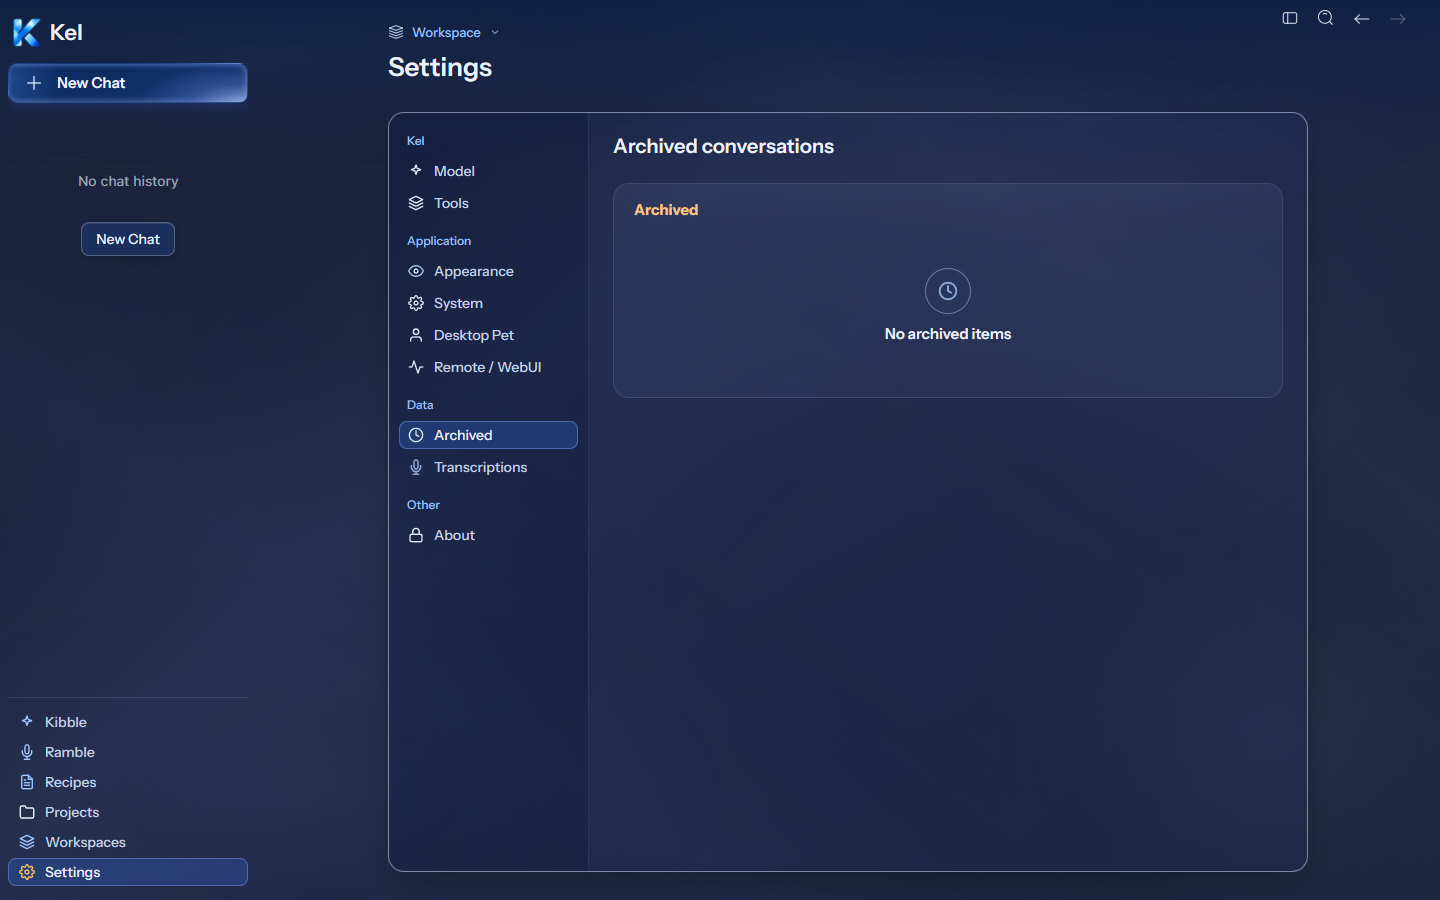
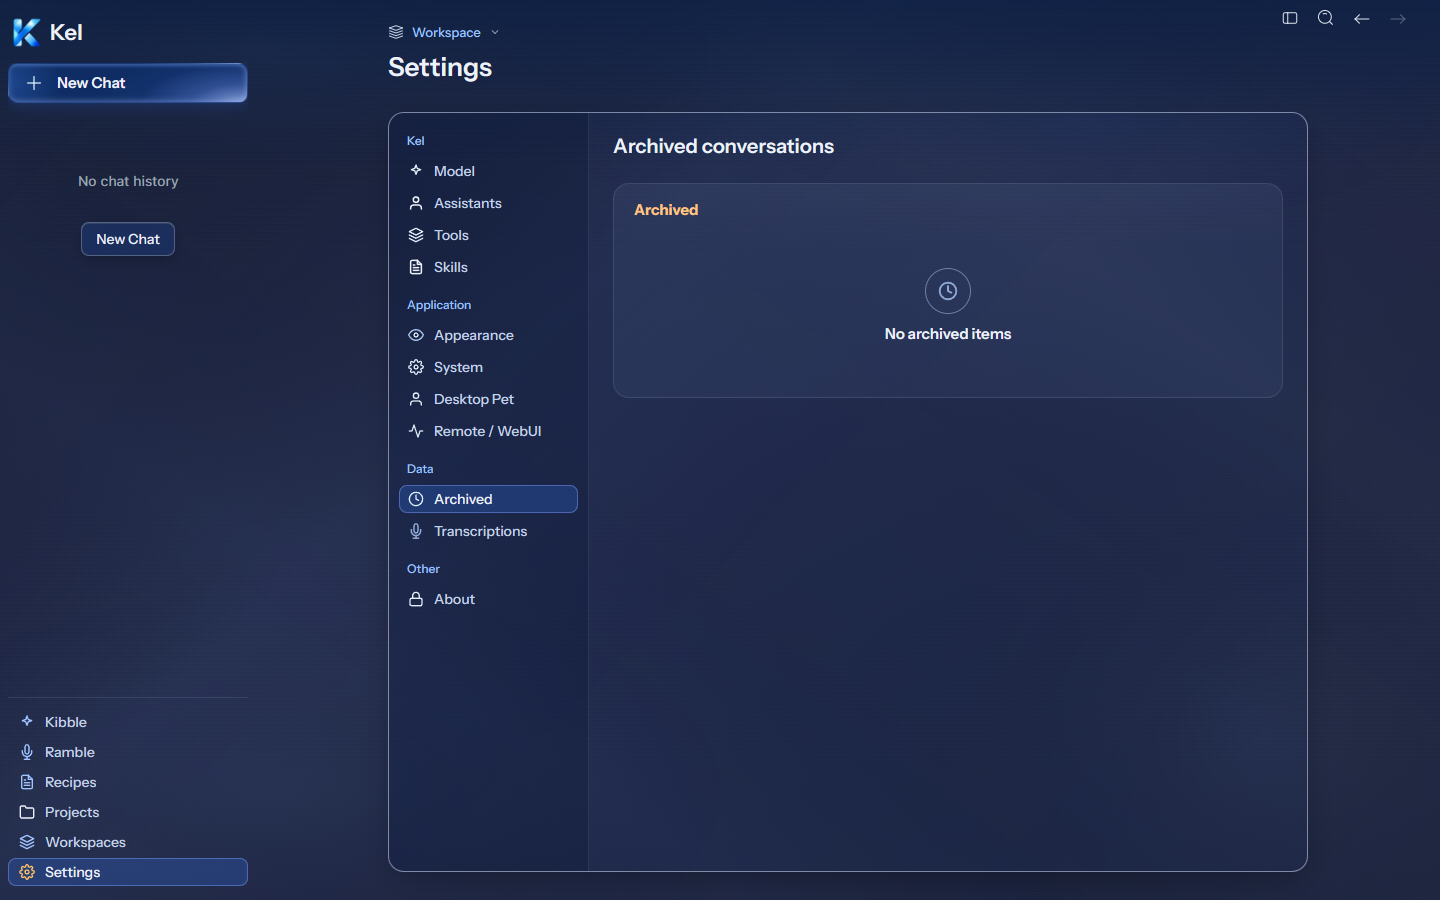
feat(shell): show Figma Assistants and Skills settings

Changed region(s): [[0.25, 0.2178, 0.4062, 0.6844]]

diff --git a/desktop/packages/desktop/src/renderer/styles/kel-shell.css b/desktop/packages/desktop/src/renderer/styles/kel-shell.css
@@ -725,6 +725,21 @@ html body .kel-v2-shell .kel-shell-chat-composer .sendbox-panel :is(.sendbox-mod
 .kel-v2-shell .kel-shell-archived-empty-content { display: flex; flex: 1; flex-direction: column; align-items: center; justify-content: center; }
 .kel-v2-shell .kel-shell-archived-empty-content .kel-meta { margin: 0; font: 600 15px/20px var(--kel-shell-heading); color: var(--kel-text-1); }
 .kel-v2-shell .kel-in-chat-frame__pane .kel-shell-about .kel-shell-preference-row { min-height: 58px; }
+.kel-v2-shell .kel-shell-catalog-stack { display: flex; flex-direction: column; gap: 12px; }
+.kel-v2-shell .kel-shell-catalog-stack > .kel-card { margin-bottom: 0; }
+.kel-v2-shell .kel-shell-catalog-card { min-height: 215px; }
+.kel-v2-shell .kel-shell-catalog-empty { display: flex; flex: 1; flex-direction: column; align-items: center; justify-content: center; }
+.kel-v2-shell .kel-shell-catalog-empty-icon { display: flex; align-items: center; justify-content: center; width: 44px; height: 44px; margin-bottom: 10px; border: 1px solid rgba(191,216,255,.45); border-radius: 50%; }
+.kel-v2-shell .kel-shell-catalog-empty-icon img { width: 20px; height: 20px; }
+.kel-v2-shell .kel-shell-catalog-empty p { margin: 0; font: 600 15px/20px var(--kel-shell-heading); color: var(--kel-text-1); }
+.kel-v2-shell .kel-shell-catalog-status { margin: auto; text-align: center; font: 400 14px/20px var(--kel-shell-body); color: var(--kel-text-2); }
+.kel-v2-shell .kel-shell-catalog-list { display: flex; flex-direction: column; }
+.kel-v2-shell .kel-shell-catalog-row { display: flex; flex-direction: column; gap: 4px; padding: 10px 0; border-bottom: 1px solid rgba(191,216,255,.12); }
+.kel-v2-shell .kel-shell-catalog-row:last-child { border-bottom: 0; }
+.kel-v2-shell .kel-shell-catalog-row strong { font: 500 14px/20px var(--kel-shell-heading); color: var(--kel-text-1); }
+.kel-v2-shell .kel-shell-catalog-row span { font: 400 12px/16px var(--kel-shell-body); color: var(--kel-text-2); }
+.kel-v2-shell .kel-shell-catalog-tip { min-height: 100px; }
+.kel-v2-shell .kel-shell-catalog-tip p { margin: 0; padding: 6px 12px; border: 1px solid rgba(191,216,255,.12); border-radius: 8px; background: rgba(47,107,224,.08); font: 400 12px/16px var(--kel-shell-body); color: var(--kel-text-2); }
 
 .kel-v2-shell .kel-shell-ramble > aside { box-sizing: border-box; width: 256px; min-width: 256px; padding: 0 8px; }
 .kel-v2-shell .kel-shell-ramble > main { padding: 22px max(24px, calc((100vw - 1176px) / 2)) 24px; }

diff --git a/desktop/packages/desktop/src/renderer/components/layout/Router.tsx b/desktop/packages/desktop/src/renderer/components/layout/Router.tsx
@@ -11,7 +11,9 @@ const Guid = React.lazy(() => import('@renderer/pages/guid'));
 const AgentSettings = React.lazy(() => import('@renderer/pages/settings/AgentSettings'));
 const AgentRepairPage = React.lazy(() => import('@renderer/pages/settings/AgentSettings/AgentRepairPage'));
 const AssistantSettings = React.lazy(() => import('@renderer/pages/settings/AssistantSettings'));
+const AssistantsOverviewSettings = React.lazy(() => import('@renderer/pages/settings/AssistantsOverviewSettings'));
 const SkillsSettings = React.lazy(() => import('@renderer/pages/settings/SkillsSettings/SkillsHubSettings'));
+const SkillsOverviewSettings = React.lazy(() => import('@renderer/pages/settings/SkillsOverviewSettings'));
 const SkillDetailPage = React.lazy(() => import('@renderer/pages/settings/SkillsSettings/SkillDetailPage'));
 const ToolsSettings = React.lazy(() => import('@renderer/pages/settings/ToolsSettings'));
 const AppearanceSettings = React.lazy(() => import('@renderer/pages/settings/AppearanceSettings'));
@@ -161,7 +163,7 @@ const PanelRoute: React.FC<{ layout: React.ReactElement }> = ({ layout }) => {
             path='/assistants'
             element={HIDE_DONOR_AGENT_SURFACES ? <Navigate to='/guid' replace /> : withRouteFallback(AssistantSettings)}
           />
-          <Route path='/settings/assistants' element={<Navigate to='/team/roster' replace />} />
+          <Route path='/settings/assistants' element={withRouteFallback(AssistantsOverviewSettings)} />
           <Route
             path='/settings/agent'
             element={<Navigate to='/team/roster' replace />}
@@ -170,10 +172,7 @@ const PanelRoute: React.FC<{ layout: React.ReactElement }> = ({ layout }) => {
             path='/settings/agent/:id/repair'
             element={<Navigate to='/team/roster' replace />}
           />
-          <Route
-            path='/settings/skills'
-            element={<Navigate to='/team/roster' replace />}
-          />
+          <Route path='/settings/skills' element={withRouteFallback(SkillsOverviewSettings)} />
           <Route
             path='/settings/skills/import-history'
             element={<Navigate to='/team/roster' replace />}

diff --git a/desktop/packages/desktop/src/renderer/pages/settings/SkillsOverviewSettings/index.tsx b/desktop/packages/desktop/src/renderer/pages/settings/SkillsOverviewSettings/index.tsx
@@ -1,0 +1,39 @@
+import { ipcBridge } from '@/common';
+import ShellSourceCardHeader from '@renderer/components/kel/ShellSourceCardHeader';
+import emptyIcon from '@renderer/assets/figma/empty-skills.svg';
+import React from 'react';
+import useSWR from 'swr';
+import SettingsPageWrapper from '../components/SettingsPageWrapper';
+
+type Skill = Awaited<ReturnType<typeof ipcBridge.fs.listAvailableSkills.invoke>>[number];
+
+const SkillsOverviewSettings: React.FC = () => {
+  const { data, error, isLoading } = useSWR<Skill[]>('kel.settings.skills', () => ipcBridge.fs.listAvailableSkills.invoke());
+  const mine = (data ?? []).filter((skill) => skill.source === 'custom');
+
+  return <SettingsPageWrapper>
+    <div className='kel-shell-catalog-stack' data-testid='kel-settings-skills'>
+      <section className='kel-card kel-shell-catalog-card'>
+        <ShellSourceCardHeader title='My Skills' />
+        {isLoading ? <p className='kel-shell-catalog-status'>Loading skills…</p>
+          : error ? <p className='kel-shell-catalog-status'>Skills are unavailable.</p>
+          : mine.length === 0 ? <div className='kel-shell-catalog-empty'>
+            <span className='kel-shell-catalog-empty-icon' aria-hidden='true'><img src={emptyIcon} alt='' /></span>
+            <p>No skills installed</p>
+          </div>
+          : <div className='kel-shell-catalog-list'>
+            {mine.map((skill) => <div className='kel-shell-catalog-row' key={skill.name}>
+              <strong>{skill.name}</strong>
+              {skill.description && <span>{skill.description}</span>}
+            </div>)}
+          </div>}
+      </section>
+      <section className='kel-card kel-shell-catalog-tip'>
+        <ShellSourceCardHeader title='Usage Tip' />
+        <p>Skills work across assistants. Enable a skill on an assistant to let it use the pack.</p>
+      </section>
+    </div>
+  </SettingsPageWrapper>;
+};
+
+export default SkillsOverviewSettings;

diff --git a/desktop/packages/desktop/src/renderer/pages/settings/components/SettingsPageWrapper.tsx b/desktop/packages/desktop/src/renderer/pages/settings/components/SettingsPageWrapper.tsx
@@ -53,6 +53,12 @@ export function getBuiltinSettingsNavItems(isDesktop: boolean, t: TranslateFn): 
       icon: <Toolkit theme='outline' size='16' />,
       path: 'tools',
     },
+    skills: {
+      id: 'skills',
+      label: t('settings.skills', { defaultValue: 'Skills' }),
+      icon: <Puzzle theme='outline' size='16' />,
+      path: 'skills',
+    },
     appearance: {
       id: 'appearance',
       label: t('settings.appearancePanel'),
@@ -202,7 +208,7 @@ const SettingsPageWrapper: React.FC<SettingsPageWrapperProps> = ({ children, cla
           <div className={contentClass}>
             <header className='kel-shell-settings-header'>
               <p>{pathname.endsWith('/model') ? 'Model' : pathname.endsWith('/about') ? 'Other' : /\/(model|tools|webui)$/.test(pathname) ? 'Settings' : pathname.endsWith('/archived') ? 'History' : 'Application'}</p>
-              <h1>{pathname.endsWith('/model') ? 'Default Kel model' : pathname.endsWith('/webui') ? 'WebUI' : pathname.endsWith('/archived') ? 'Archived conversations' : menuItems.find((item) => pathname.includes(`/settings/${item.path}`))?.label ?? 'Settings'}</h1>
+              <h1>{pathname.endsWith('/model') ? 'Default Kel model' : pathname.endsWith('/skills') ? 'Skills Hub' : pathname.endsWith('/webui') ? 'WebUI' : pathname.endsWith('/archived') ? 'Archived conversations' : menuItems.find((item) => pathname.includes(`/settings/${item.path}`))?.label ?? 'Settings'}</h1>
             </header>
             {pathname.endsWith('/model') && <p className='kel-shell-model-description'>Kel uses this model for normal conversations. A chat can still pick its own model from the chat header, and Automatic keeps Kel's routing across every available provider.</p>}
             {children}

diff --git a/desktop/packages/desktop/src/renderer/pages/settings/AssistantsOverviewSettings/index.tsx b/desktop/packages/desktop/src/renderer/pages/settings/AssistantsOverviewSettings/index.tsx
@@ -1,0 +1,32 @@
+import { ipcBridge } from '@/common';
+import type { Assistant } from '@/common/types/agent/assistantTypes';
+import ShellSourceCardHeader from '@renderer/components/kel/ShellSourceCardHeader';
+import emptyIcon from '@renderer/assets/figma/empty-assistants.svg';
+import React from 'react';
+import useSWR from 'swr';
+import SettingsPageWrapper from '../components/SettingsPageWrapper';
+
+const AssistantsOverviewSettings: React.FC = () => {
+  const { data, error, isLoading } = useSWR<Assistant[]>('assistants.list', () => ipcBridge.assistants.list.invoke());
+  const mine = (data ?? []).filter((assistant) => assistant.source === 'user');
+
+  return <SettingsPageWrapper>
+    <section className='kel-card kel-shell-catalog-card' data-testid='kel-settings-assistants'>
+      <ShellSourceCardHeader title='My Assistants' />
+      {isLoading ? <p className='kel-shell-catalog-status'>Loading assistants…</p>
+        : error ? <p className='kel-shell-catalog-status'>Assistants are unavailable.</p>
+        : mine.length === 0 ? <div className='kel-shell-catalog-empty'>
+          <span className='kel-shell-catalog-empty-icon' aria-hidden='true'><img src={emptyIcon} alt='' /></span>
+          <p>No assistants here yet</p>
+        </div>
+        : <div className='kel-shell-catalog-list'>
+          {mine.map((assistant) => <div className='kel-shell-catalog-row' key={assistant.id}>
+            <strong>{assistant.name}</strong>
+            {assistant.description && <span>{assistant.description}</span>}
+          </div>)}
+        </div>}
+    </section>
+  </SettingsPageWrapper>;
+};
+
+export default AssistantsOverviewSettings;

diff --git a/desktop/packages/desktop/src/renderer/pages/settings/components/SettingsSider.tsx b/desktop/packages/desktop/src/renderer/pages/settings/components/SettingsSider.tsx
@@ -14,6 +14,7 @@ import {
   Info,
   LinkCloud,
   Puzzle,
+  Robot,
   System,
   Toolkit,
 } from '@icon-park/react';
@@ -33,10 +34,10 @@ import { getSiderTooltipProps } from '@/renderer/utils/ui/siderTooltip';
  * here plus its page route, and the sider filter below hides desktop-only tabs in browser mode.
  */
 export const BUILTIN_TAB_IDS = [
-  // Human-visual repair (HV-12): 'agent' (Agents) and 'skills' (Team roles) were removed — their
-  // only destination was the internal Team/roster surface, which is hidden from ordinary users.
   'model',
+  'assistants',
   'tools',
+  'skills',
   'appearance',
   'webui',
   'pet',
@@ -90,12 +91,14 @@ const SettingsSider: React.FC<{ collapsed?: boolean; tooltipEnabled?: boolean }>
     // Build builtin items
     const builtinMap: Record<string, SiderItem> = {
       model: { id: 'model', label: t('settings.model'), icon: <LinkCloud />, path: 'model' },
+      assistants: { id: 'assistants', label: t('settings.assistants', { defaultValue: 'Assistants' }), icon: <Robot />, path: 'assistants' },
       tools: {
         id: 'tools',
         label: t('settings.tools', { defaultValue: 'Tools' }),
         icon: <Toolkit />,
         path: 'tools',
       },
+      skills: { id: 'skills', label: t('settings.skills', { defaultValue: 'Skills' }), icon: <Puzzle />, path: 'skills' },
       appearance: { id: 'appearance', label: t('settings.appearancePanel'), icon: <Computer />, path: 'appearance' },
       webui: {
         id: 'webui',

diff --git a/desktop/packages/desktop/src/renderer/components/kel/ShellSettingsIcon.tsx b/desktop/packages/desktop/src/renderer/components/kel/ShellSettingsIcon.tsx
@@ -1,13 +1,15 @@
 import React from 'react';
 import model from '@renderer/assets/figma/nav-model.svg';
+import assistants from '@renderer/assets/figma/nav-assistants.svg';
 import tools from '@renderer/assets/figma/nav-tools.svg';
+import skills from '@renderer/assets/figma/nav-skills.svg';
 import appearance from '@renderer/assets/figma/nav-appearance.svg';
 import webui from '@renderer/assets/figma/nav-webui.svg';
 import pet from '@renderer/assets/figma/nav-pet.svg';
 import system from '@renderer/assets/figma/nav-system.svg';
 import archived from '@renderer/assets/figma/nav-archived.svg';
 import about from '@renderer/assets/figma/nav-about.svg';
-const icons: Record<string, string> = { model, tools, appearance, webui, pet, system, archived, about };
+const icons: Record<string, string> = { model, assistants, tools, skills, appearance, webui, pet, system, archived, about };
 export default function ShellSettingsIcon({ name }: { name: string }) {
   return <img className='kel-shell-source-icon' src={icons[name]} alt='' width={16} height={16} />;
 }

diff --git a/desktop/packages/desktop/src/renderer/components/kel/KelInChatFrame.tsx b/desktop/packages/desktop/src/renderer/components/kel/KelInChatFrame.tsx
@@ -35,7 +35,9 @@ const projectGroups: Group[] = [
 const settingsGroups: Group[] = [
   { label: 'Kel', items: [
     { label: 'Model', path: '/settings/model', icon: 'model' },
+    { label: 'Assistants', path: '/settings/assistants', icon: 'assistants' },
     { label: 'Tools', path: '/settings/tools', icon: 'tools' },
+    { label: 'Skills', path: '/settings/skills', icon: 'skills' },
   ] },
   { label: 'Application', items: [
     { label: 'Appearance', path: '/settings/appearance', icon: 'appearance' },

diff --git a/docs/v2/evidence/figma-refresh/README.md b/docs/v2/evidence/figma-refresh/README.md
@@ -10,14 +10,17 @@ Source: [Screens FINAL](https://www.figma.com/design/BlpVvZGuc9j9HhxUojIiJI/Kel-
 - Dark canvas, glass frame, inner panels, spacing, shadow, and type use the source values. The body font is SF Pro Text; headings use Instrument Sans.
 - The Projects recipe category response now accepts the engine's `{name,count}` rows. This fixes a render error found during visual navigation.
 - Model and Archived now use the source empty-state spacing and icon treatment. Tools and About use the source card alignment. The Model page keeps its working Add Model action.
+- Assistants and Skills appear in the Settings navigation at the source positions. Their pages read the existing assistant and skill stores and use the source empty cards, titles, and icons.
 
 ## Rendered comparison
 
-The 1440×900 reference and built pairs are [Home](source-home.png) / [built](built-home.png), [Work](source-work.png) / [built](built-work.png), [Activity](source-activity.png) / [built](built-activity.png), [Projects](source-projects.png) / [built](built-projects.png), [Settings Appearance](source-settings.png) / [built](built-settings.png), [Settings Model](source-model.png) / [built](built-model.png), [Settings Archived](source-archived.png) / [built](built-archived.png), and [Ramble](source-ramble.png) / [built](built-ramble.png). The built images use an isolated, empty data root. The Figma examples contain conversations, active work, a recording, and a changed theme state. Those data differences are not filled with mock content.
+The 1440×900 reference and built pairs are [Home](source-home.png) / [built](built-home.png), [Work](source-work.png) / [built](built-work.png), [Activity](source-activity.png) / [built](built-activity.png), [Projects](source-projects.png) / [built](built-projects.png), [Settings Appearance](source-settings.png) / [built](built-settings.png), [Settings Model](source-model.png) / [built](built-model.png), [Settings Assistants](source-assistants.png) / [built](built-assistants.png), [Settings Skills](source-skills.png) / [built](built-skills.png), [Settings Archived](source-archived.png) / [built](built-archived.png), and [Ramble](source-ramble.png) / [built](built-ramble.png). The built images use isolated data. The Figma examples contain conversations, active work, a recording, and a changed theme state. Those data differences are not filled with mock content. The isolated app has a saved Kel assistant, so its Assistants card shows that real row instead of the source empty state.
 
 Permissions, scheduled tasks, Providers, Diagnostics, onboarding, Settings Tools, System, Remote / WebUI, Desktop Pet, and About were also inspected against their Screens FINAL renders. Their content changes with live data. The empty local root does not reproduce the populated Figma examples. WebUI mode shows browser-specific Remote / WebUI and Desktop Pet states; their desktop controls require a packaged-app comparison.
 
-Measured in the built WebUI: the Work and Settings frames are `(388,112,920,760)`, the Ramble panel is `(388,93,920,783)`, and the Transcriptions panel is `(613,231,670,620)`. Activity starts at `(613,183,670,85)` and the Projects summary starts at `(613,185,670,85)`. Settings Model starts at `(613,183,670,320)` and its custom card at `(613,515,670,215)`. Archived starts at `(613,183,670,215)`. These match the source layout measurements within 1px. The eight compared routes have no page error or horizontal overflow at 1440px.
+Measured in the built WebUI: the Work and Settings frames are `(388,112,920,760)`, the Ramble panel is `(388,93,920,783)`, and the Transcriptions panel is `(613,231,670,620)`. Activity starts at `(613,183,670,85)` and the Projects summary starts at `(613,185,670,85)`. Settings Model starts at `(613,183,670,320)` and its custom card at `(613,515,670,215)`. Archived starts at `(613,183,670,215)`. These match the source layout measurements within 1px. The ten compared routes have no page error or horizontal overflow at 1440px.
+
+Assistants and Skills each start with a `(613,183,670,215)` card. The Skills Usage Tip starts at `(613,410,670,100)`. The navigation order and these bounds match Screens FINAL. The prior Settings screenshots were recaptured after restoring both entries.
 
 ## Checks
 
@@ -28,11 +31,12 @@ Measured in the built WebUI: the Work and Settings frames are `(388,112,920,760)
 - The Projects link opened the real Knowledge route after the category fix.
 - Home, Model, Tools, Archived, and About opened with no page error or horizontal overflow at 1440px after the final settings pass.
 - Model, Tools, Archived, and About opened with no page error or horizontal overflow at 1024px, 393px, and 360px.
+- Assistants and Skills opened with the correct active navigation row, no page error, and no horizontal overflow at 1440px, 1024px, 393px, and 360px.
 - The built page resolves its heading to Instrument Sans and its body to SF Pro Text; both local font families loaded.
 
 ## Open decisions and limits
 
-- Screens FINAL includes Assistants and Skills in Settings. Kel's current product direction retired those as visible sections. Their routes remain in the app, but this branch does not restore those navigation items without a product decision.
+- Nick confirmed that Assistants and Skills belong in Settings. Their visible overview pages now follow Screens FINAL and show real stored rows. The Figma file specifies empty states without create or edit controls, so these pages are read-only. Populated-row layouts are a documented inference. The older management editor is not exposed by this change.
 - The screenshots prove the built WebUI on an isolated root. They do not prove an installed candidate or populated-state pixel fidelity.
 - Remote / WebUI and Desktop Pet render different content in browser mode. Their desktop-only controls remain unverified in this branch.
 - These comparisons establish the shared frame and sampled content layouts. A later audit must check every populated component state before anyone claims complete pixel fidelity.
